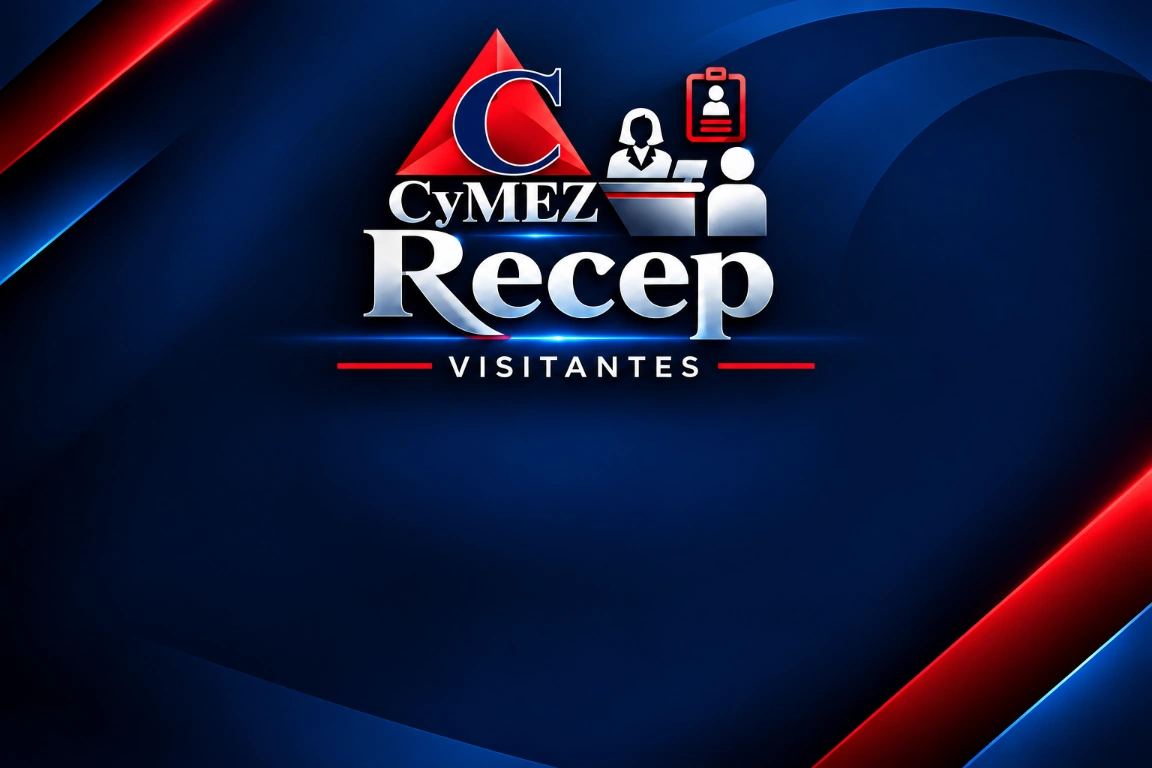
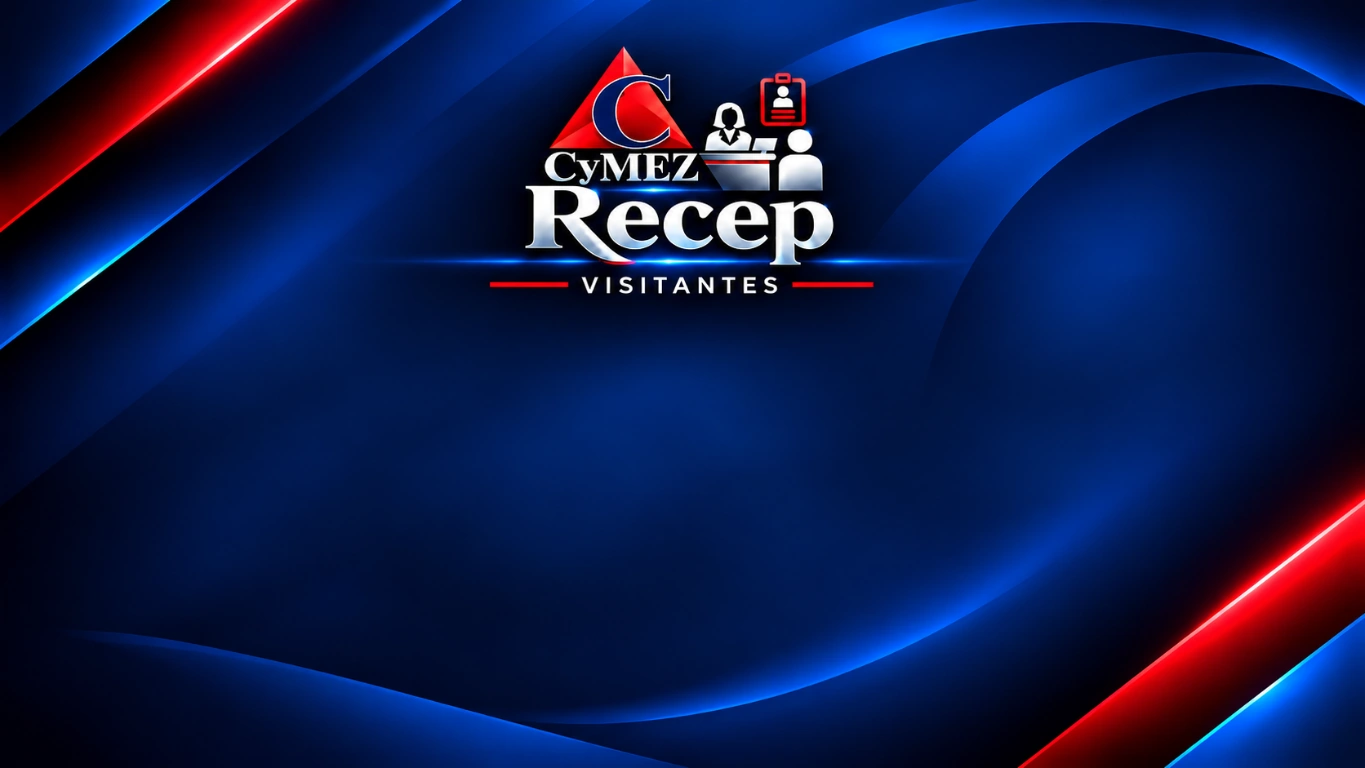
Se actualizo el fondo en tabletas

diff --git a/frontend/src/style.css b/frontend/src/style.css
@@ -4059,7 +4059,7 @@ input:focus-visible {
     inset: 0;
     width: 100%;
     height: 100%;
-    object-fit: contain;
+    object-fit: cover;
     object-position: center;
     pointer-events: none;
   }
@@ -4161,7 +4161,7 @@ input:focus-visible {
 
   .tablet-visitor-landing-footer {
     position: absolute;
-    bottom: 12.4%;
+    bottom: 12%;
     left: 50%;
     display: flex;
     width: min(84vw, 1050px);
